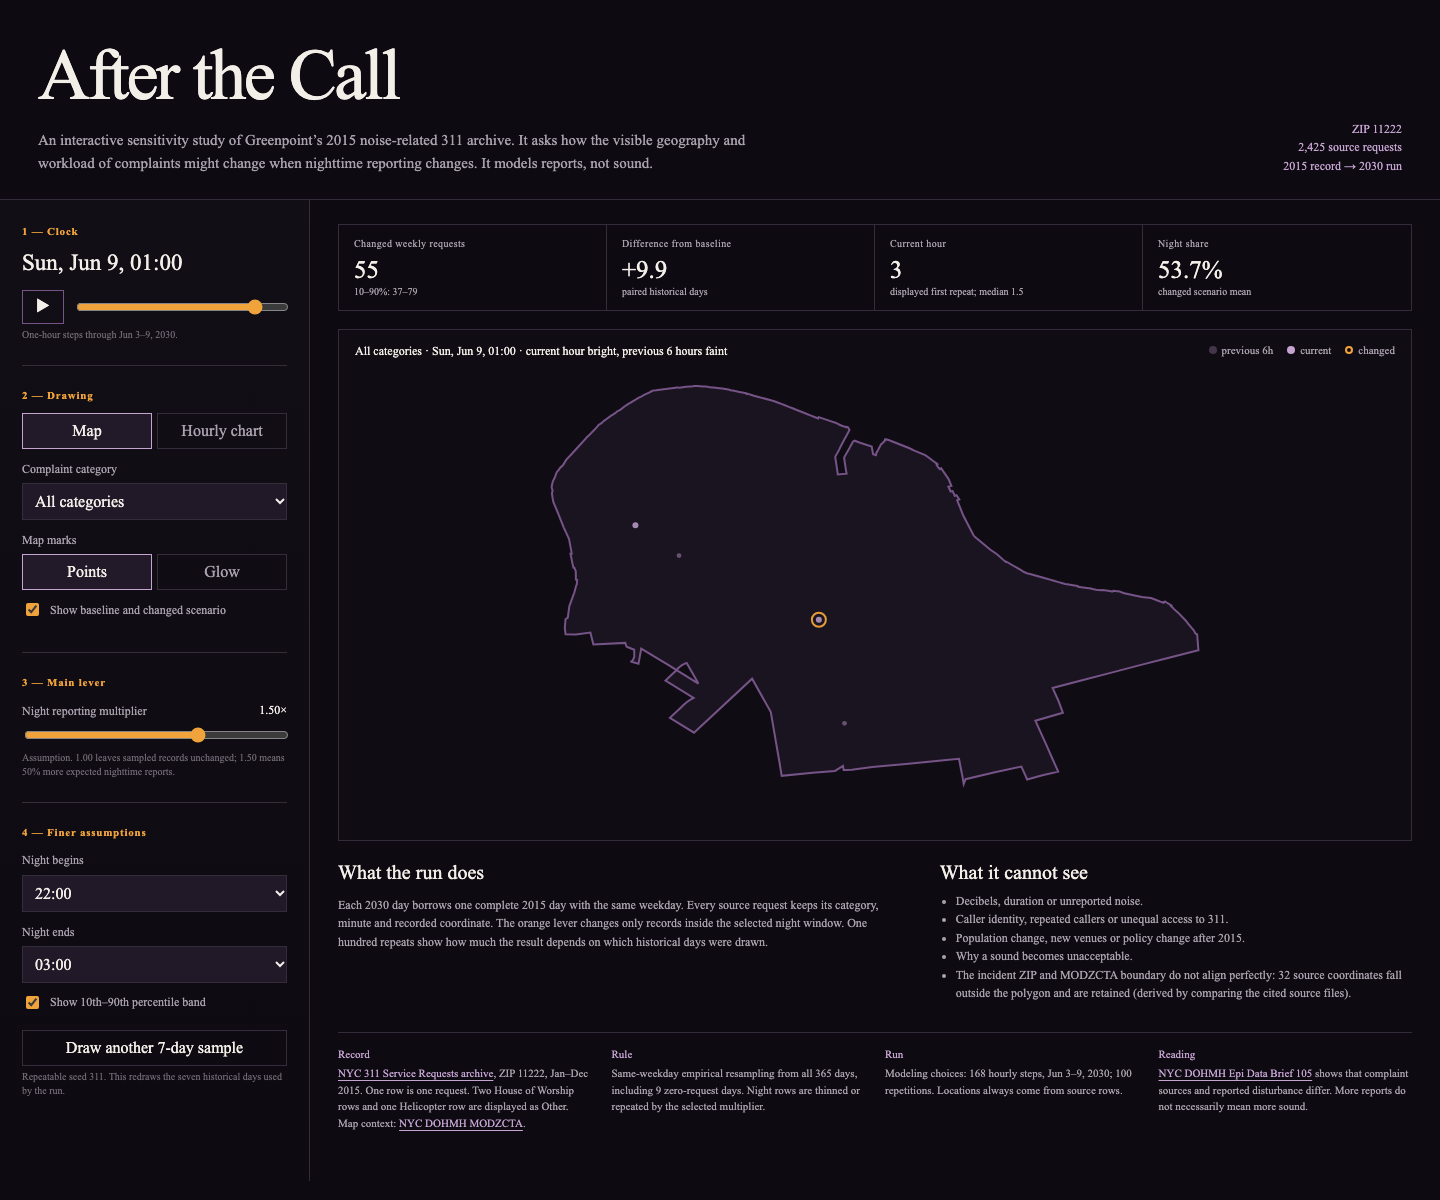
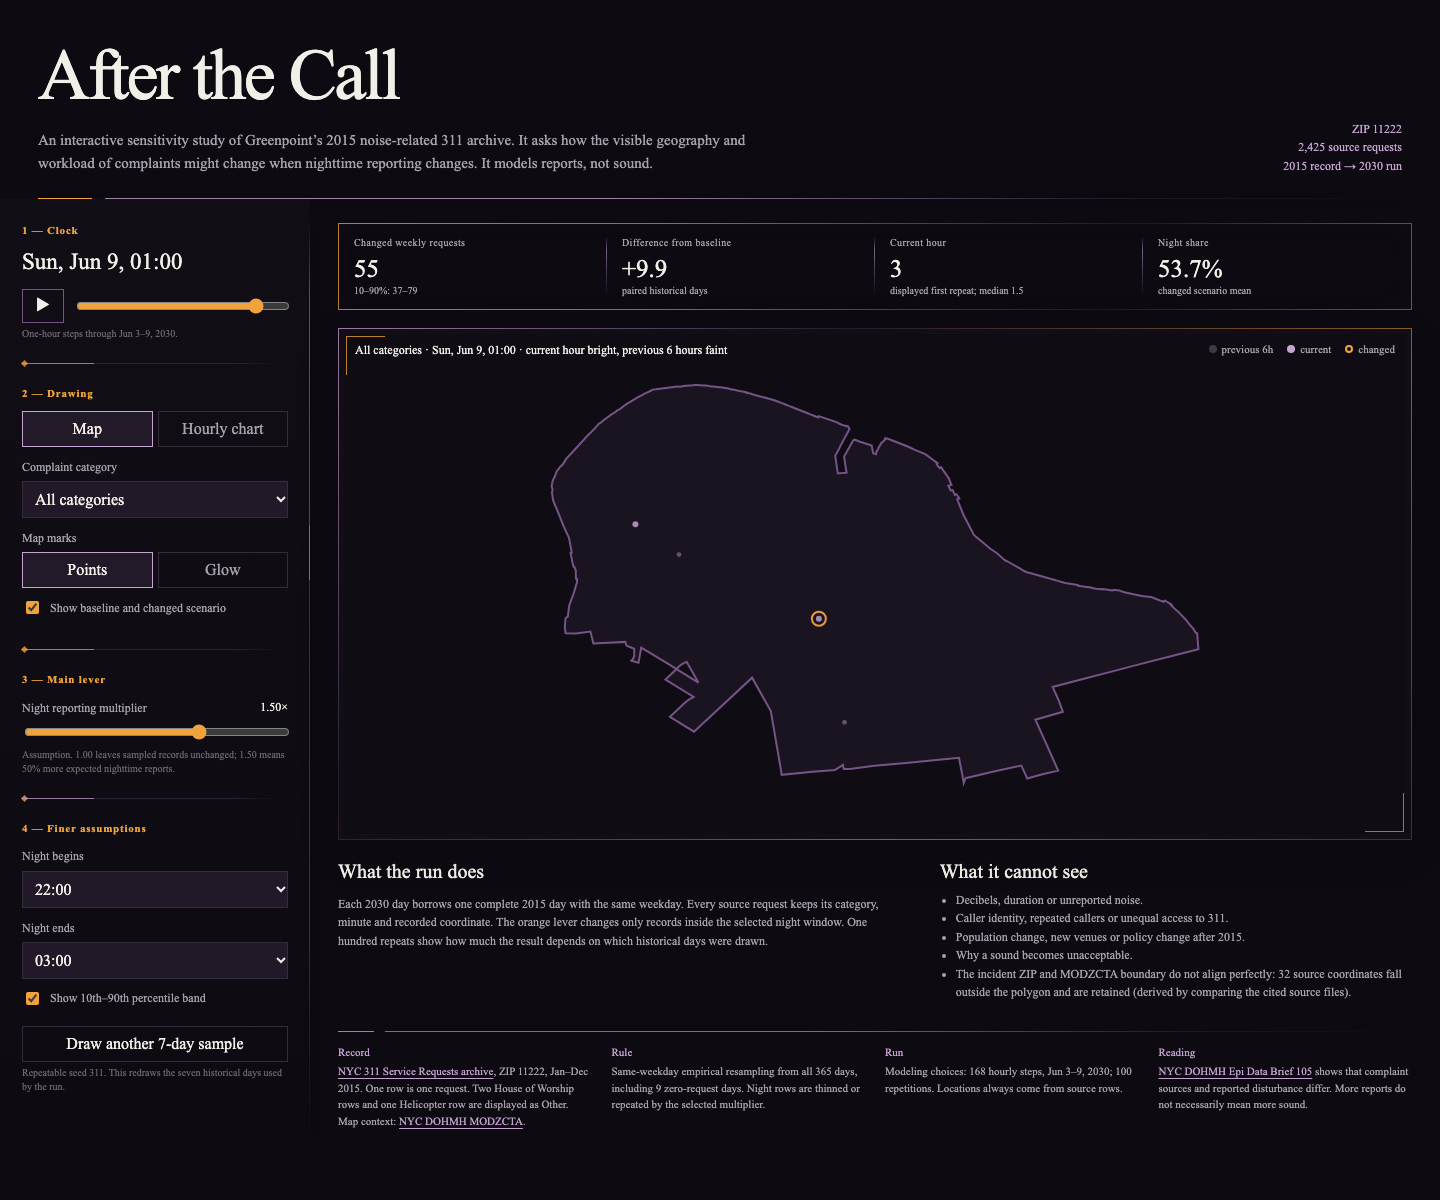
Refine interface borders and framing

diff --git a/index.html b/index.html
@@ -16,13 +16,17 @@
     .cursor-glow{position:fixed;z-index:9999;left:0;top:0;width:240px;height:240px;border-radius:50%;pointer-events:none;opacity:0;transform:translate(-50%,-50%);background:radial-gradient(circle,rgba(198,164,210,.24) 0%,rgba(118,84,135,.13) 28%,rgba(118,84,135,.045) 52%,transparent 72%);mix-blend-mode:screen;transition:opacity .22s ease;will-change:left,top}
     button,input,select{font:inherit}
     button:focus-visible,input:focus-visible,select:focus-visible{outline:2px solid var(--orange);outline-offset:2px}
-    header{padding:34px 38px 23px;border-bottom:1px solid var(--line);display:grid;grid-template-columns:minmax(0,1fr) auto;gap:30px;align-items:end}
+    header{position:relative;padding:34px 38px 23px;border-bottom:0;display:grid;grid-template-columns:minmax(0,1fr) auto;gap:30px;align-items:end}
+    header::after{content:"";position:absolute;left:38px;right:38px;bottom:0;height:1px;background:linear-gradient(90deg,var(--orange) 0 54px,transparent 54px 67px,rgba(198,164,210,.78) 67px 42%,rgba(118,84,135,.22) 78%,transparent 100%);box-shadow:0 5px 18px rgba(118,84,135,.16)}
     h1{margin:0;font-family:Georgia,serif;font-size:clamp(34px,5vw,72px);font-weight:400;letter-spacing:-.035em}
     header p{max-width:730px;margin:12px 0 0;color:var(--muted);font-size:15px;line-height:1.55}
     .stamp{font-family:ui-monospace,SFMono-Regular,Menlo,monospace;color:var(--purple);font-size:12px;text-align:right;line-height:1.55}
     main{display:grid;grid-template-columns:310px minmax(0,1fr);min-height:720px}
-    aside{border-right:1px solid var(--line);padding:24px 22px 38px;background:linear-gradient(180deg,#120e16,#0d0a11)}
-    .control-group{padding:0 0 23px;margin:0 0 22px;border-bottom:1px solid var(--line)}
+    aside{position:relative;border-right:0;padding:24px 22px 38px;background:linear-gradient(180deg,#120e16,#0d0a11)}
+    aside::after{content:"";position:absolute;right:0;top:24px;bottom:38px;width:1px;background:linear-gradient(180deg,transparent 0,rgba(198,164,210,.42) 8%,rgba(118,84,135,.72) 33%,rgba(240,163,58,.65) 33% 39%,rgba(118,84,135,.45) 39% 78%,transparent 100%);box-shadow:5px 0 18px rgba(118,84,135,.12)}
+    .control-group{position:relative;padding:0 0 23px;margin:0 0 22px;border-bottom:0}
+    .control-group:not(:last-child)::after{content:"";position:absolute;left:0;right:10px;bottom:0;height:1px;background:linear-gradient(90deg,rgba(198,164,210,.72) 0 28%,rgba(118,84,135,.3) 28% 82%,transparent 100%)}
+    .control-group:not(:last-child)::before{content:"";position:absolute;left:0;bottom:-2px;width:5px;height:5px;background:var(--orange);transform:rotate(45deg);opacity:.78}
     .control-group:last-child{border-bottom:0}
     .eyebrow{font:600 11px/1.4 ui-monospace,SFMono-Regular,Menlo,monospace;color:var(--orange);letter-spacing:.07em;margin-bottom:10px}
     .clock-readout{font:400 23px/1.25 Georgia,serif;margin:0 0 12px}
@@ -40,13 +44,17 @@
     .check input{accent-color:var(--orange)}
     .range-note{font-size:10px;color:#716a76;margin-top:4px;line-height:1.4}
     .stage{min-width:0;padding:24px 28px 44px}
-    .metrics{display:grid;grid-template-columns:repeat(4,minmax(110px,1fr));border:1px solid var(--line);margin-bottom:18px}
-    .metric{padding:13px 15px;border-right:1px solid var(--line);min-height:82px}
+    .metrics{position:relative;display:grid;grid-template-columns:repeat(4,minmax(110px,1fr));border:1px solid transparent;background:linear-gradient(var(--paper),var(--paper)) padding-box,linear-gradient(112deg,rgba(240,163,58,.76),rgba(198,164,210,.62) 30%,rgba(118,84,135,.16) 72%,rgba(198,164,210,.48)) border-box;box-shadow:inset 0 0 26px rgba(118,84,135,.045);margin-bottom:18px}
+    .metric{position:relative;padding:13px 15px;border-right:0;min-height:82px}
+    .metric:not(:last-child)::after{content:"";position:absolute;right:0;top:12px;bottom:12px;width:1px;background:linear-gradient(180deg,transparent,rgba(198,164,210,.58) 24%,rgba(118,84,135,.34) 74%,transparent)}
     .metric:last-child{border-right:0}
     .metric .n{font:400 25px Georgia,serif;margin:7px 0 2px}
     .metric .k{font:10px ui-monospace,SFMono-Regular,Menlo,monospace;color:var(--muted);letter-spacing:.04em}
     .metric .sub{font-size:10px;color:var(--muted)}
-    .figure{position:relative;min-height:510px;border:1px solid var(--line);background:#100c14;overflow:hidden}
+    .figure{position:relative;min-height:510px;border:1px solid transparent;background:linear-gradient(#100c14,#100c14) padding-box,linear-gradient(138deg,rgba(198,164,210,.74),rgba(118,84,135,.24) 31%,rgba(240,163,58,.56) 68%,rgba(198,164,210,.24)) border-box;box-shadow:inset 0 0 0 5px rgba(118,84,135,.025),0 12px 40px rgba(0,0,0,.14);overflow:hidden}
+    .figure::before,.figure::after{content:"";position:absolute;z-index:4;width:38px;height:38px;pointer-events:none}
+    .figure::before{left:7px;top:7px;border-left:1px solid rgba(240,163,58,.78);border-top:1px solid rgba(240,163,58,.78)}
+    .figure::after{right:7px;bottom:7px;border-right:1px solid rgba(198,164,210,.68);border-bottom:1px solid rgba(198,164,210,.68)}
     .figure-head{position:absolute;z-index:3;left:16px;right:16px;top:14px;display:flex;justify-content:space-between;gap:20px;pointer-events:none}
     .figure-title{font:12px ui-monospace,SFMono-Regular,Menlo,monospace;color:var(--ink)}
     .legend{display:flex;gap:14px;color:var(--muted);font-size:11px}
@@ -61,11 +69,12 @@
     .caption h2{font:400 20px Georgia,serif;margin:0 0 8px}
     .caption p,.caption li{color:var(--muted);font-size:12px;line-height:1.55}
     .caption ul{padding-left:16px;margin:7px 0}
-    .method-strip{margin-top:22px;border-top:1px solid var(--line);padding-top:15px;display:grid;grid-template-columns:repeat(4,1fr);gap:20px}
+    .method-strip{position:relative;margin-top:22px;border-top:0;padding-top:15px;display:grid;grid-template-columns:repeat(4,1fr);gap:20px}
+    .method-strip::before{content:"";position:absolute;left:0;right:0;top:0;height:1px;background:linear-gradient(90deg,rgba(240,163,58,.8) 0 36px,transparent 36px 47px,rgba(198,164,210,.62) 47px 44%,rgba(118,84,135,.18) 79%,transparent)}
     .method-strip div{font-size:11px;line-height:1.5;color:var(--muted)}
     .method-strip strong{display:block;color:var(--purple);font:11px ui-monospace,SFMono-Regular,Menlo,monospace;margin-bottom:5px}
-    @media(max-width:900px){main{grid-template-columns:1fr} aside{border-right:0;border-bottom:1px solid var(--line)}.metrics{grid-template-columns:1fr 1fr}.metric:nth-child(2){border-right:0}.metric:nth-child(-n+2){border-bottom:1px solid var(--line)}.caption{grid-template-columns:1fr}.method-strip{grid-template-columns:1fr 1fr}.stamp{display:none}}
-    @media(max-width:520px){header{padding:25px 20px}.stage{padding:18px 12px}.metrics{grid-template-columns:1fr}.metric{border-right:0;border-bottom:1px solid var(--line)}.method-strip{grid-template-columns:1fr}}
+    @media(max-width:900px){main{grid-template-columns:1fr} aside{border-right:0;border-bottom:0}aside::after{left:22px;right:22px;top:auto;bottom:0;width:auto;height:1px;background:linear-gradient(90deg,var(--orange),rgba(198,164,210,.54) 35%,transparent)}.metrics{grid-template-columns:1fr 1fr}.metric:nth-child(2)::after{display:none}.metric:nth-child(-n+2){border-bottom:1px solid rgba(118,84,135,.34)}.caption{grid-template-columns:1fr}.method-strip{grid-template-columns:1fr 1fr}.stamp{display:none}}
+    @media(max-width:520px){header{padding:25px 20px}header::after{left:20px;right:20px}.stage{padding:18px 12px}.metrics{grid-template-columns:1fr}.metric:not(:last-child){border-bottom:1px solid rgba(118,84,135,.34)}.metric::after{display:none}.method-strip{grid-template-columns:1fr}}
     @media(hover:none),(pointer:coarse){.cursor-glow{display:none}}
   </style>
 </head>
